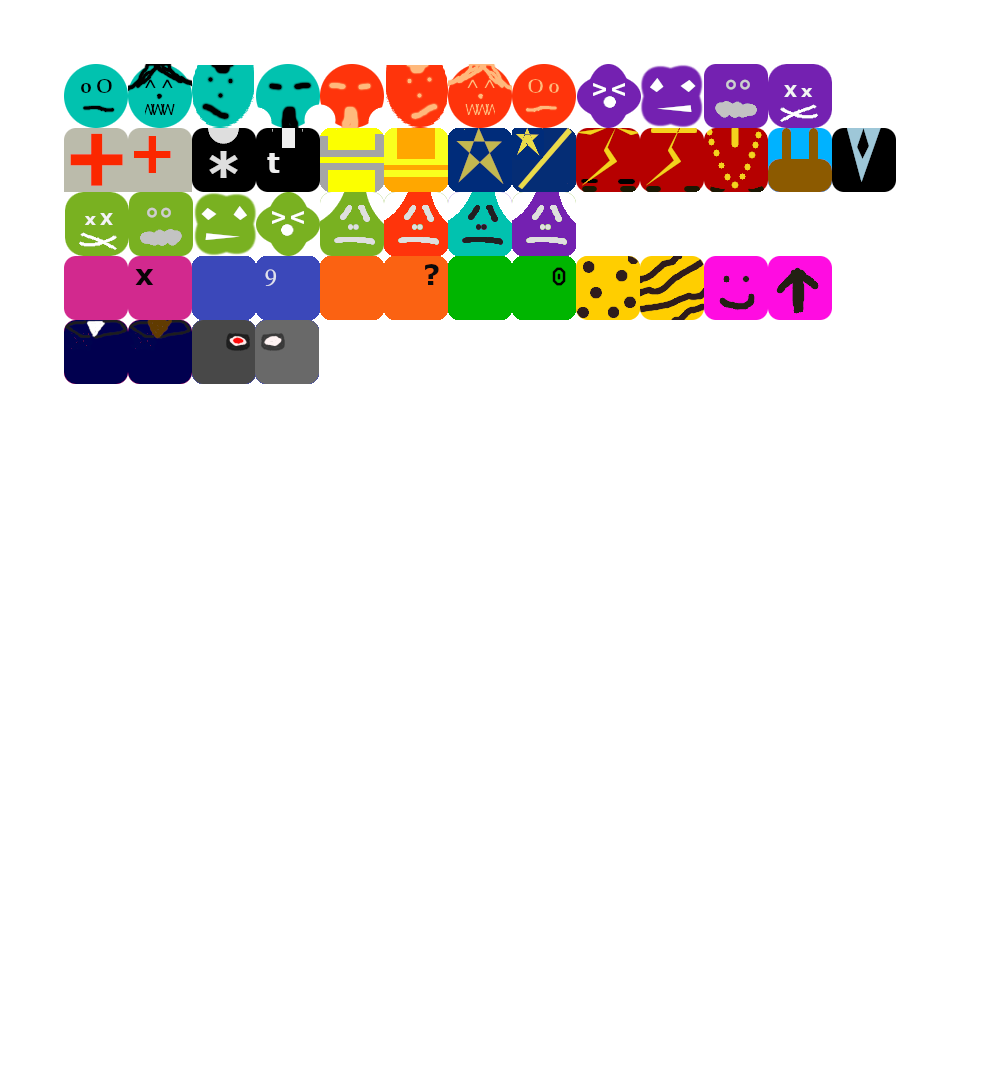
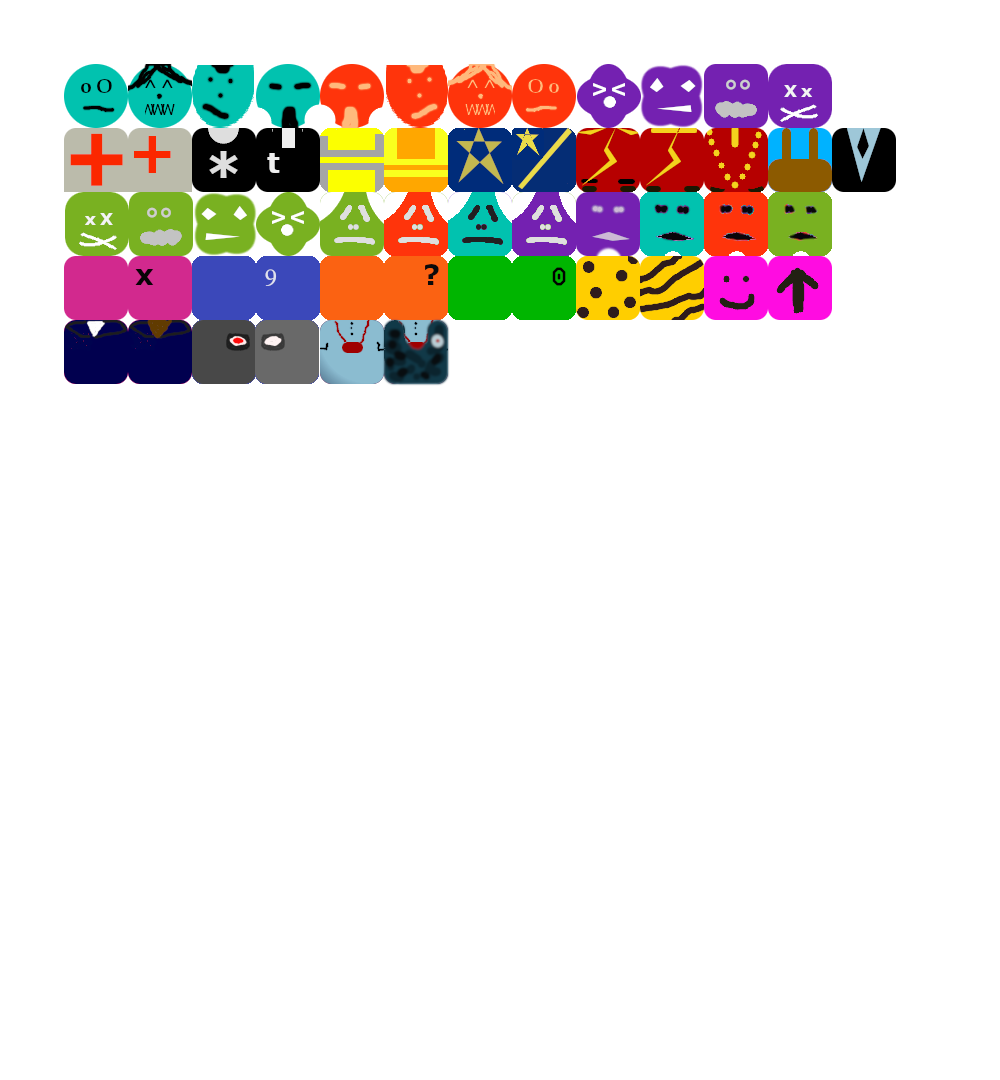
mailroom npcs

Changed region(s): [[0.558, 0.1528, 0.837, 0.2444], [0.31, 0.275, 0.465, 0.3667]]

diff --git a/src/scripts/states/inits/roomsInitState.ts b/src/scripts/states/inits/roomsInitState.ts
@@ -380,9 +380,9 @@ export const RoomsInitState = {
     matrix: { x: 3, y: 4 },
     roomname: 'gym',
     stations: {
-      //guest: "",
+      guest: '',
       browse: '',
-      //loiter2: "",
+      loiter2: '',
       loiter4: '',
       bench: '',
       servants1: '',
@@ -434,6 +434,7 @@ export const RoomsInitState = {
 export const RoomsInitLayout = [
   ['alley1', 'alley2', 'alley3', null, null],
   ['unloading', 'warehouse', 'commonsext', 'storage', 'maintenance'],
+  // put a hallway here testjpf!!!
   ['loading', 'lockers', 'commonsint', 'chapel', 'inn1'],
   ['baggage', 'customs', 'lobby', 'recroom', 'pubgrill'],
   ['grounds', 'reception', 'admin1', 'gym', 'store'],
@@ -465,7 +466,7 @@ export const RoomsInitRoles = {
     'security',
     'custodians',
   ],
-  bench: ['labor', 'contractors', 'gang1', 'gang3', 'maintenance'],
+  bench: ['labor', 'contractors', 'gang1', 'gang3', 'maintenance', 'mailroom'],
   browse: [
     'staff',
     'labor',
@@ -477,7 +478,15 @@ export const RoomsInitRoles = {
   ],
   monitor: ['security', 'staff', 'corps', 'doctors', 'maintenance'],
   guard: ['security', 'gang1', 'gang3'],
-  patrol: ['security', 'gang2', 'gang4', 'corps', 'staff', 'custodians'],
+  patrol: [
+    'security',
+    'gang2',
+    'gang4',
+    'corps',
+    'staff',
+    'custodians',
+    'mailroom',
+  ],
   loiter1: [
     'sexworkers',
     'visitors',
@@ -497,6 +506,7 @@ export const RoomsInitRoles = {
     'contractors',
     'labor',
     'maintenance',
+    'mailroom',
   ],
   loiter3: [
     'doctors',
@@ -507,6 +517,7 @@ export const RoomsInitRoles = {
     'security',
     'gang4',
     'labor',
+    'mailroom',
   ],
   loiter4: [
     'doctors',
@@ -517,6 +528,7 @@ export const RoomsInitRoles = {
     'gang4',
     'labor',
     'custodians',
+    'mailroom',
   ],
   lounge: [
     'doctors',
@@ -529,7 +541,7 @@ export const RoomsInitRoles = {
     'labor',
     'maintenance',
   ],
-  worker1: ['labor', 'gang1', 'gang3', 'gang4', 'contractors'],
+  worker1: ['labor', 'gang1', 'gang3', 'gang4', 'contractors', 'mailroom'],
   worker2: ['labor', 'gang2', 'gang4', 'contractors', 'maintenance'],
   boss: ['corps', 'gang2', 'gang1', 'gang3', 'contractors'],
   assistant: ['gang2', 'gang1', 'gang3', 'contractors', 'staff', 'doctors'],
@@ -547,6 +559,7 @@ export const RoomsInitRoles = {
     'sexworkers',
     'labor',
     'custodians',
+    'mailroom',
   ],
   servants1: [
     'staff',
@@ -558,7 +571,7 @@ export const RoomsInitRoles = {
     'labor',
     'custodians',
   ],
-  employee: ['staff', 'gang1', 'gang3', 'maintenance'],
+  employee: ['staff', 'gang1', 'gang3', 'maintenance', 'mailroom'],
   gang: ['gang1', 'gang2', 'gang3', 'gang4'],
 }
 export const RoomsInitFallbacks = {

diff --git a/src/scripts/states/inits/npcsInitState.ts b/src/scripts/states/inits/npcsInitState.ts
@@ -19,6 +19,33 @@ const npc_defaults: NpcDefaults = {
   race: '',
 }
 export const NpcsInitState = {
+  mailroom01: {
+    home: { x: 3, y: 1 }, //loading
+    labelname: 'mailroom01',
+    inventory: ['tomato', 'banana'],
+    clearence: 1,
+    clan: 'mailroom',
+    body: 'mailroom01body',
+    ...npc_defaults,
+  },
+  mailroom02: {
+    home: { x: 1, y: 1 }, //warehouse
+    labelname: 'mailroom02',
+    inventory: ['mushroom03', 'vial01'],
+    clearence: 1,
+    clan: 'mailroom',
+    body: 'mailroom02body',
+    ...npc_defaults,
+  },
+  mailroom03: {
+    home: { x: 2, y: 4 }, //warehouse
+    labelname: 'mailroom03',
+    inventory: ['mushroom03', 'vial01'],
+    clearence: 1,
+    clan: 'mailroom',
+    body: 'mailroom01body',
+    ...npc_defaults,
+  },
   custodian01: {
     home: { x: 3, y: 1 }, //loading
     labelname: 'custodian01',

diff --git a/src/scripts/states/npcs.ts b/src/scripts/states/npcs.ts
@@ -156,6 +156,14 @@ const binarylookup: BinaryLookupTable = {
     un_educated: -0.2,
     poor_wealthy: -0.2,
   },
+  mailroom: {
+    evil_good: -0.1,
+    passive_aggressive: 0.2,
+    lawless_lawful: -0.2,
+    anti_authority: 0.1,
+    un_educated: 0,
+    poor_wealthy: -0.1,
+  },
 }
 
 // need npcs interface?
@@ -229,7 +237,7 @@ function random_attributes(npcs: Npcs, order: string[]) {
     if (path > 3) {
       count++
       path = 0
-      if (count > 5) count = 1
+      if (count > 6) count = 1
     }
     npcs[kn].race = `race0${path + 1}_0${count}`
     npcs[kn].ai_path = ai_paths[path]
